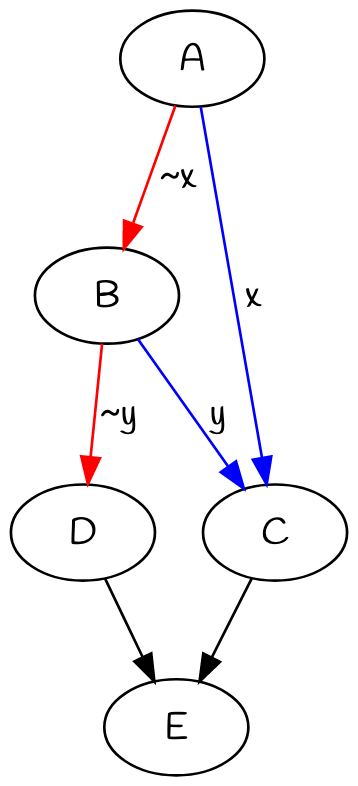
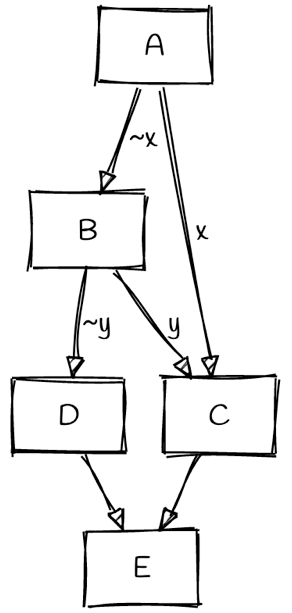
fix  images

Changed region(s): [[0.0308, 0.0, 0.9863, 0.9918], [0.339, 0.4959, 0.4007, 0.5579]]

diff --git a/_posts/2024-01-02-dec-history-pt1.md b/_posts/2024-01-02-dec-history-pt1.md
@@ -37,29 +37,9 @@ Indeed the goto structure can be constructed from any node with an edge, which m
 
 Let's run an example to briefly understand how this works.
 Below you will find a five-node CFG, which has been lifted from an assembly graph:
+
 #### Example Graph
-```
-                            +-----+
-                            |  A  |
-                            +-----+
-                              |   |
-                           ~x |   +--+
-                              V      |
-                         +-----+     |
-                         |  B  |     | x
-                         +-----+     |
-                           |  +--+   |
-                        ~y |     | y |
-                           V     V   V
-                       +-----+  +-----+
-                       |  D  |  |  C  |
-                       +-----+  +-----+
-                            |    |
-                            V    V
-                            +-----+
-                            |  E  |
-                            +-----+
-```
+![](/assets/images/dec-history/struct_ex.png)
 
 That diamond pattern encapsulated in `B`-`E` is a classic `if-then-else` structure, where `y` is the condition. 
 Unfortunately, there is also an edge slamming right in the middle of that structure: `A -> C`, violating the known pattern.
